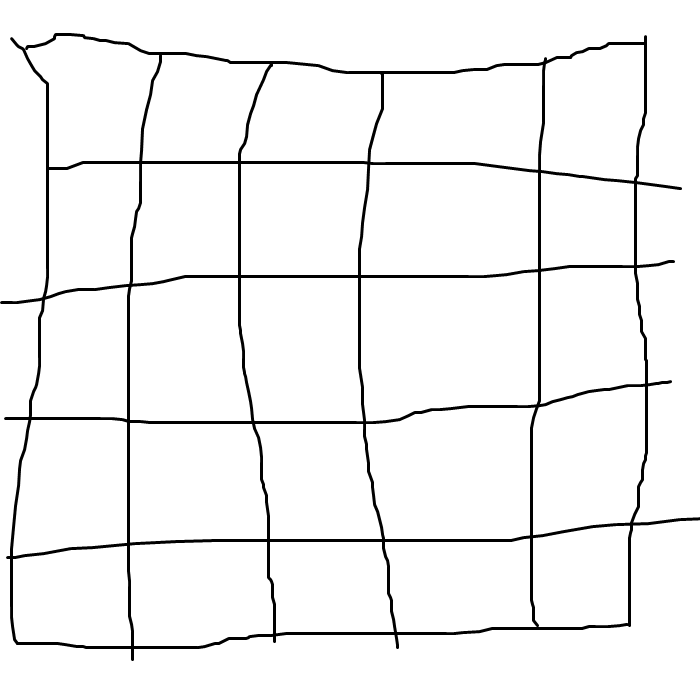
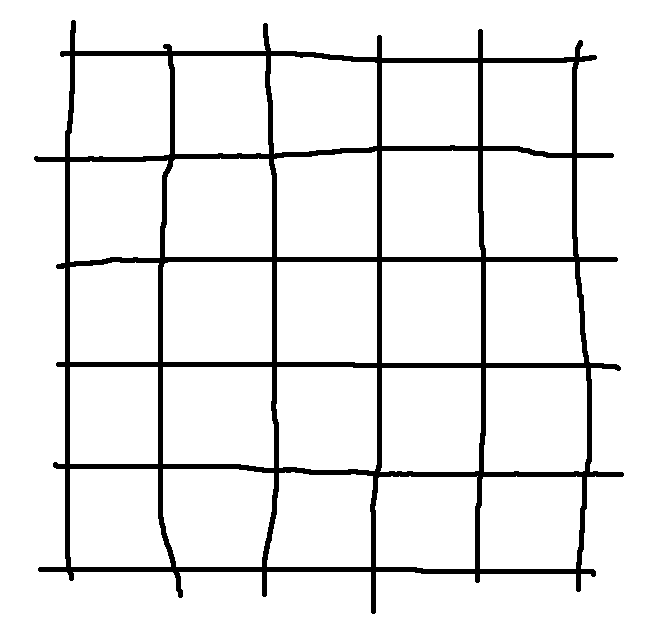
Create Bingo!

Changed region(s): [[0.0, 0.0299, 1.0, 0.9575], [0.031, 0.0598, 0.0619, 0.1197]]

diff --git a/src/style/bingo.css b/src/style/bingo.css
@@ -1,0 +1,52 @@
+#logo{
+  max-width: 100%;
+}
+
+#root{
+  display: flex;
+  flex-direction: column;
+  justify-content: center;
+  align-items: center;
+}
+
+.board{
+  position: relative;
+  width: min(80vh, 80vw);
+  height: min(80vh, 80vw);
+}
+
+.board > img{
+  position: absolute;
+  width: 100%;
+  height: 100%;
+  z-index: 999;
+  pointer-events: none;
+}
+
+.board > .fields {
+  position: absolute;
+  display: grid;
+  grid-template-columns: repeat(5, auto);
+  grid-template-rows: repeat(5, auto);
+  font-size: 1.1em;
+  left: min(9vw, 9vh);
+  top: min(7vw, 7vh);
+}
+
+.board > .fields > .field {
+  background-color: white;
+  width: calc(min(63vh, 63vw) / 5);
+  height: calc(min(65vh, 65vw) / 5);
+  display: flex;
+  justify-content: center;
+  align-items: center;
+}
+
+.board > .fields > .field.marked {
+  background-image: url('marked.png');
+  background-size: cover;
+}
+
+.board > .fields > .field:hover {
+  filter: brightness(80%);
+} 

diff --git a/src/pages/bingo/index.tsx b/src/pages/bingo/index.tsx
@@ -1,5 +1,6 @@
 import { h, Fragment, render } from "preact";
-
+import style from '@/style/bingo.css';
+import { Board } from "@/components/bingo/Board";
 const root = document.getElementById('root');
 
 if (!root) throw new Error('<preact> No root element');
@@ -12,8 +13,10 @@ if (!root) throw new Error('<preact> No root element');
 type Props = {
 };
 
-function App({}: Props) {
+function App({ }: Props) {
   return <>
-  Bongo!
+    <style>{style}</style>
+    <img id="logo" src="bingo.png" alt="" />
+    <Board></Board>
   </>;
 };

diff --git a/src/components/bingo/Board.tsx b/src/components/bingo/Board.tsx
@@ -1,0 +1,14 @@
+import { h } from "preact";
+
+export function Board() {
+  return <div className="board">
+    <img src="bingo_board.png" alt="" />
+    <div className="fields">
+      {
+        (() => [...new Array(25)].map(_ =>
+          <div className="field" onDblClick={({ currentTarget }) => currentTarget.classList.toggle('marked')} contentEditable={true}></div>
+        ))()
+      }
+    </div>
+  </div>;
+}
